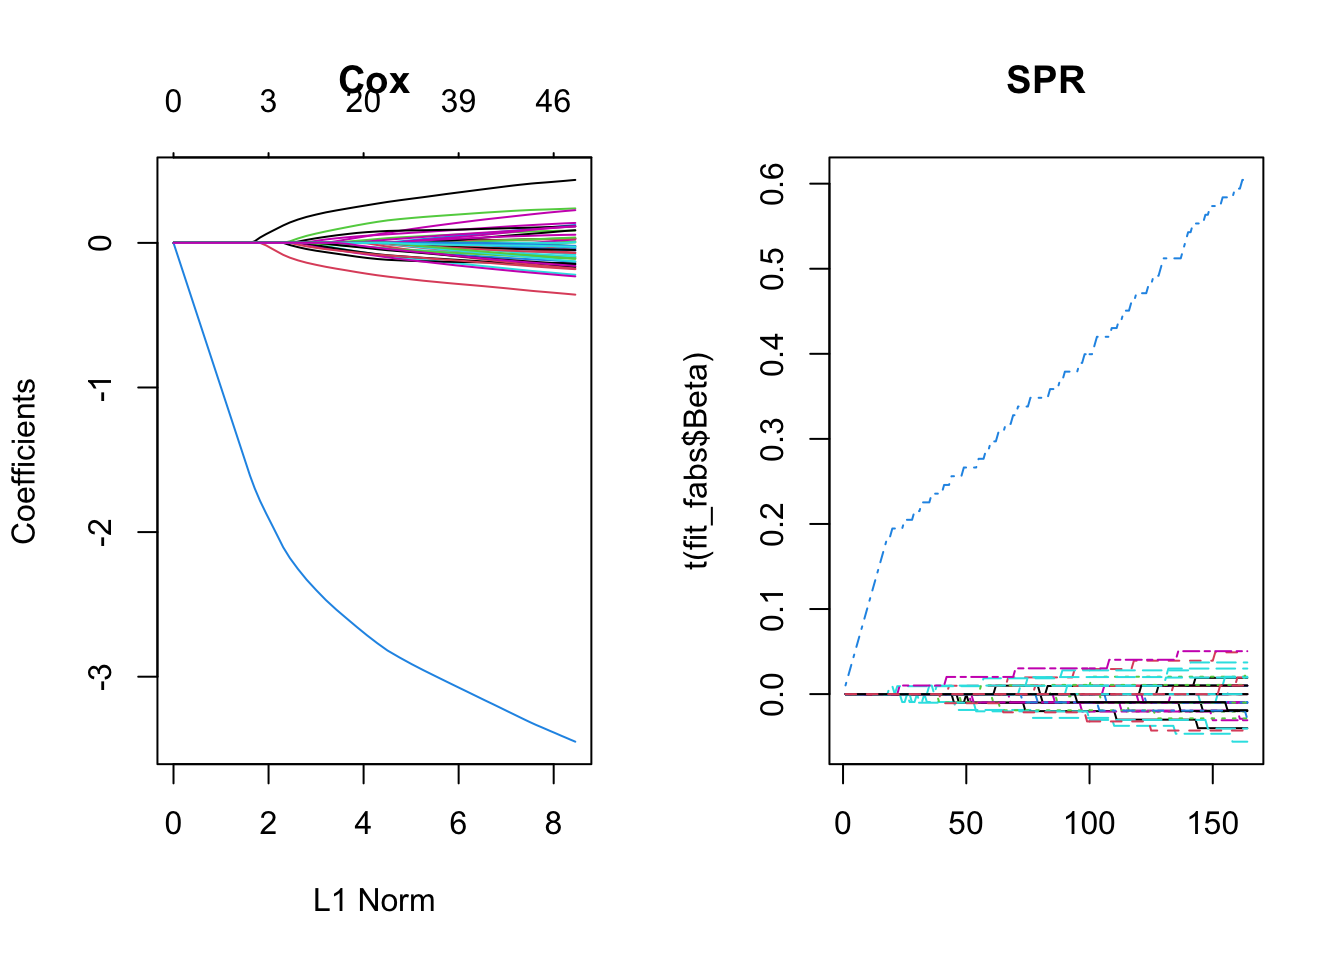
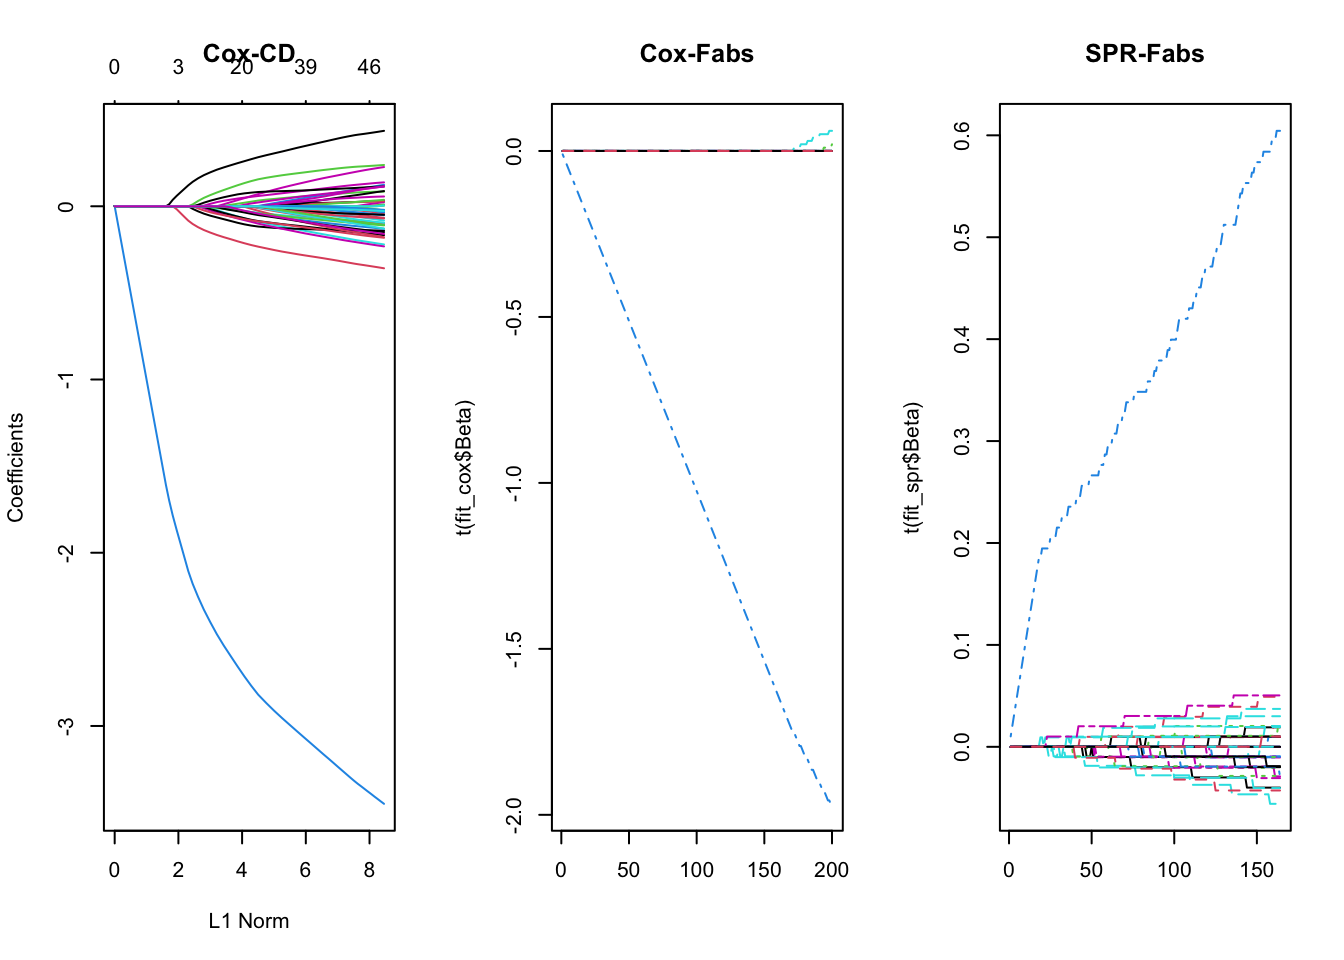
add toml to public

diff --git a/post/2019-03-15-fabs/index.html b/post/2019-03-15-fabs/index.html
@@ -182,20 +182,23 @@ y &lt;- rexp(N, hx)
 tcens &lt;- rbinom(n = N, prob = 0.3, size = 1)  # censoring indicator
 status &lt;- 1-tcens 
 
+# Coordinate descent
 library(glmnet)
 ## Loading required package: Matrix
 ## Loaded glmnet 4.0-2
 library(survival)
 fit &lt;- glmnet(x, Surv(y, 1-status), family = &quot;cox&quot;)
 
-
+# Fabs
 group &lt;- 1:p
 library(GFabs)
-fit_fabs &lt;- GFabs(x, y, group, status, model = &quot;spr&quot;, iter = 200)
+fit_cox &lt;- GFabs(x, y, group, status, model = &quot;cox&quot;, iter = 200)
+fit_spr &lt;- GFabs(x, y, group, status, model = &quot;spr&quot;, iter = 200)
 
-par(mfrow = c(1, 2))
-plot(fit, main = &quot;Cox&quot;)
-matplot(t(fit_fabs$Beta), type = &quot;l&quot;, lty=1:p, main = &quot;SPR&quot;)</code></pre>
+par(mfrow = c(1, 3))
+plot(fit, main = &quot;Cox-CD&quot;)
+matplot(t(fit_cox$Beta), type = &quot;l&quot;, lty=1:p, main = &quot;Cox-Fabs&quot;)
+matplot(t(fit_spr$Beta), type = &quot;l&quot;, lty=1:p, main = &quot;SPR-Fabs&quot;)</code></pre>
 <p><img src="/post/2019-03-15-fabs_files/figure-html/unnamed-chunk-1-1.png" width="672" /></p>
 </div>
 </div>

diff --git a/tags/html/index.html b/tags/html/index.html
@@ -148,7 +148,7 @@
       
 
     <h4><a href="https://github.com/XingjieShi/#/">grpFabs</a></h4>
-    <h5>January 1, 0001</h5>
+    <h5>Consectetur adipiscing elit</h5>
     
 <a href="/tags/html"><kbd class="item-tag">html</kbd></a>
 
